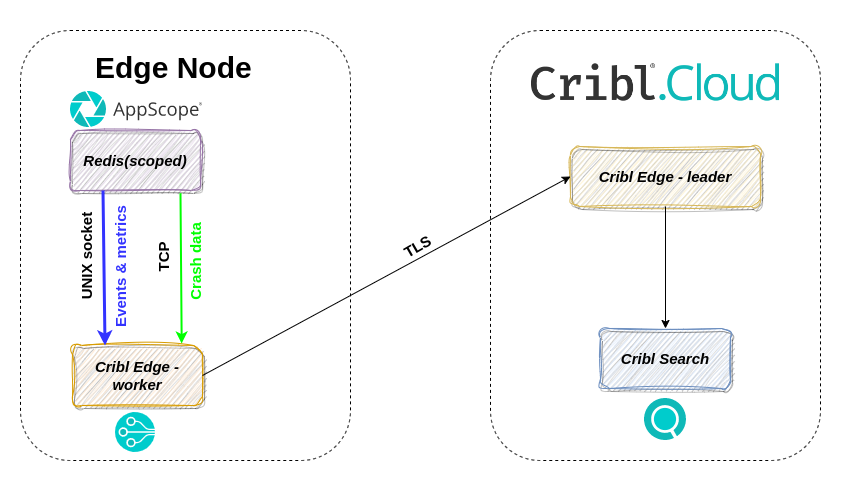
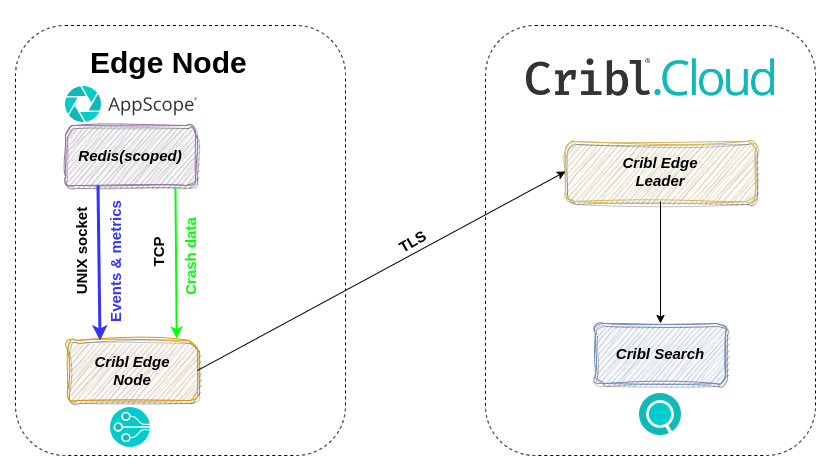
Use Edge Node instead of Edge worker name

diff --git a/README.md b/README.md
@@ -7,8 +7,8 @@ Demo to present AppScope Crash analysis capabilities using Cribl product
 
 Fill up `.env` file with cloud credentials values:
 
-- `CLOUD_LEADER_HOSTNAME` - Leader Node hostname
-- `CLOUD_TOKEN` - Leader Node’s shared secret (authToken)
+- `CLOUD_LEADER_HOSTNAME` - Leader Edge Node hostname
+- `CLOUD_TOKEN` - Leader Edge Node’s shared secret (authToken)
 - `CLOUD_FLEET_NAME` - Name of the cluster’s Worker Group.
 
 See details [here](https://docs.cribl.io/edge/environment-variables/).
@@ -35,7 +35,7 @@ docker ps
 
 CONTAINER ID   IMAGE                             COMMAND                  CREATED         STATUS        PORTS                                       NAMES
 c6d3aa03a82b   appscopecrashanalysis_redis-app   "redis-server --prot…"   2 seconds ago   Up 1 second   0.0.0.0:6379->6379/tcp, :::6379->6379/tcp   redis-app
-463a313d5554   cribl/cribl:latest                "/sbin/entrypoint.sh…"   2 seconds ago   Up 1 second                                               edge-worker1
+463a313d5554   cribl/cribl:latest                "/sbin/entrypoint.sh…"   2 seconds ago   Up 1 second                                               edge-node1
 ```
 
 ## Building
